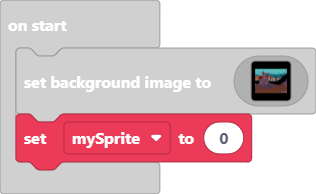
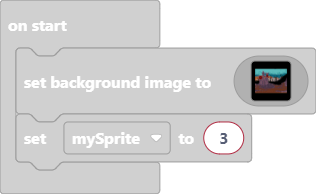
Update main.blocks, main.ts

Changed region(s): [[0.0285, 0.5567, 0.7975, 0.8969], [0.6835, 0.6804, 0.7405, 0.7423]]

diff --git a/main.ts b/main.ts
@@ -1,2 +1,2 @@
 scene.setBackgroundImage(assets.image`myImage`)
-let mySprite = 0
+let mySprite = 3
